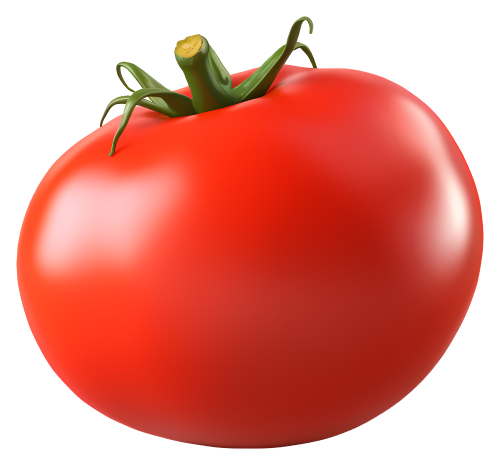
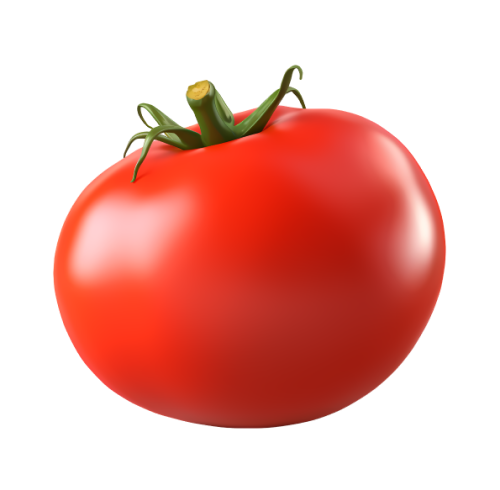
Cambios visuales en header y footer

diff --git a/src/main/resources/templates/index.html b/src/main/resources/templates/index.html
@@ -6,24 +6,36 @@
     <meta name="viewport" content="width=device-width, initial-scale=1.0">
     <link rel="stylesheet" href="/css/style.css">
     <script src="https://cdn.jsdelivr.net/npm/@tailwindcss/browser@4"></script>
-    <title>Home</title>
+    <title>AI Chef</title>
 </head>
 
 <body class="min-h-screen flex flex-col">
 
     <!-- HEADER -->
-    <header class="h-20 flex flex-row justify-between sticky items-center px-4">
+    <header
+        class="fixed top-0 left-0 w-full h-15 flex flex-row justify-between items-center px-6 z-50 bg-[#F8F4ED]/70 backdrop-blur-md border-b border-[#E4DFD8]">
+
         <div>
             <img class="logo-AIChef" src="/images/logo_AIChef.png" alt="Logo AI Chef">
         </div>
+
         <nav>
-            <ul class="flex flex-row gap-8 font-gantari">
-                <a href="#ingredientes">
-                    <li>Ingredientes</li>
-                </a>
-                <a href="#recetas">
-                    <li>Recetas</li>
-                </a>
+            <ul class="flex flex-row gap-8 font-gantari text-lg">
+
+                <li>
+                    <a href="#ingredientes"
+                        class="transition-colors duration-200 hover:text-[#5B833F] active:text-[#5B833F]">
+                        Ingredientes
+                    </a>
+                </li>
+
+                <li>
+                    <a href="#recetas"
+                        class="transition-colors duration-200 hover:text-[#5B833F] active:text-[#5B833F]">
+                        Recetas
+                    </a>
+                </li>
+
             </ul>
         </nav>
     </header>
@@ -48,10 +60,10 @@
                             stroke-linecap="round" />
                     </svg>
                 </span>
-                al <span class="text-brown-orange"><i>plato</i></span>.
+                al <span class="text-[#C66339]"><i>plato</i></span>.
             </h1>
 
-            <p class="text-[30px] font-basic leading-[1.5] text-grey">
+            <p class="text-[25px] text-[#7A746E] font-basic leading-[1.5]">
                 Decinos que tenés en la cocina y la IA te sugiere
                 <span class="text-black">3 recetas</span> paso a paso, como un chef profesional.
             </p>
@@ -88,7 +100,7 @@
                 ?
             </h2>
 
-            <p class="text-[20px] font-basic text-grey leading-[1.5]">
+            <p class="text-[20px] text-[#7A746E] font-basic leading-[1.5]">
                 Buscá ingredientes a tu izquierda y arrastralos a tu tabla.
             </p>
         </div>
@@ -131,7 +143,7 @@
                 <form action="/generar-recetas" method="post" onsubmit="return validateForm()">
 
                     <div
-                        class="grid grid-cols-5 gap-2 mt-2 max-h-[420px] overflow-y-auto pr-2 custom-scroll scroll-smooth">
+                        class="grid grid-cols-5 gap-2 mt-2 max-h-[440px] overflow-y-auto pr-2 custom-scroll scroll-smooth">
 
                         <div th:each="ing : ${ingredientes}" class="ingredient-card"
                             th:attr="data-category=${ing.category.name}, data-name=${ing.name}" draggable="true">
@@ -158,6 +170,8 @@
                         </div>
 
                     </div>
+
+                </form>
 
             </div>
 
@@ -193,7 +207,7 @@
 
             </div>
 
-            </form>
+        </div>
 
     </section>
 
@@ -304,12 +318,16 @@
 
         </div>
 
-        </div>
     </section>
 
+    <div class="border-t-2 border-dashed border-gray-300 mt-4"></div>
+
+    <!-- Footer -->
+    <footer class="py-6 text-center text-sm text-gray-400">
+        <p>AI Chef — Proyecto Integrador PP4 © 2026</p>
+    </footer>
 
     <script src="/js/filters.js"></script>
-
 </body>
 
 </html>

diff --git a/src/main/resources/static/css/style.css b/src/main/resources/static/css/style.css
@@ -34,6 +34,10 @@ body {
     color: black;
 }
 
+main {
+    padding-top: 100px;
+}
+
 /* Fonts applications */
 .font-jomhuria {
     font-family: 'Jomhuria', cursive;
@@ -123,13 +127,10 @@ nav ul li {
     bottom: -10px;
     height: 25px;
 }
+
 .color-border-foggy-day {
     border: 1px solid var(--Color-border-foggy-day);
     box-shadow: 2px 2px var(--Color-text-grey);
-}
-
-.hidden {
-    display: none;
 }
 
 .custom-scroll::-webkit-scrollbar {
